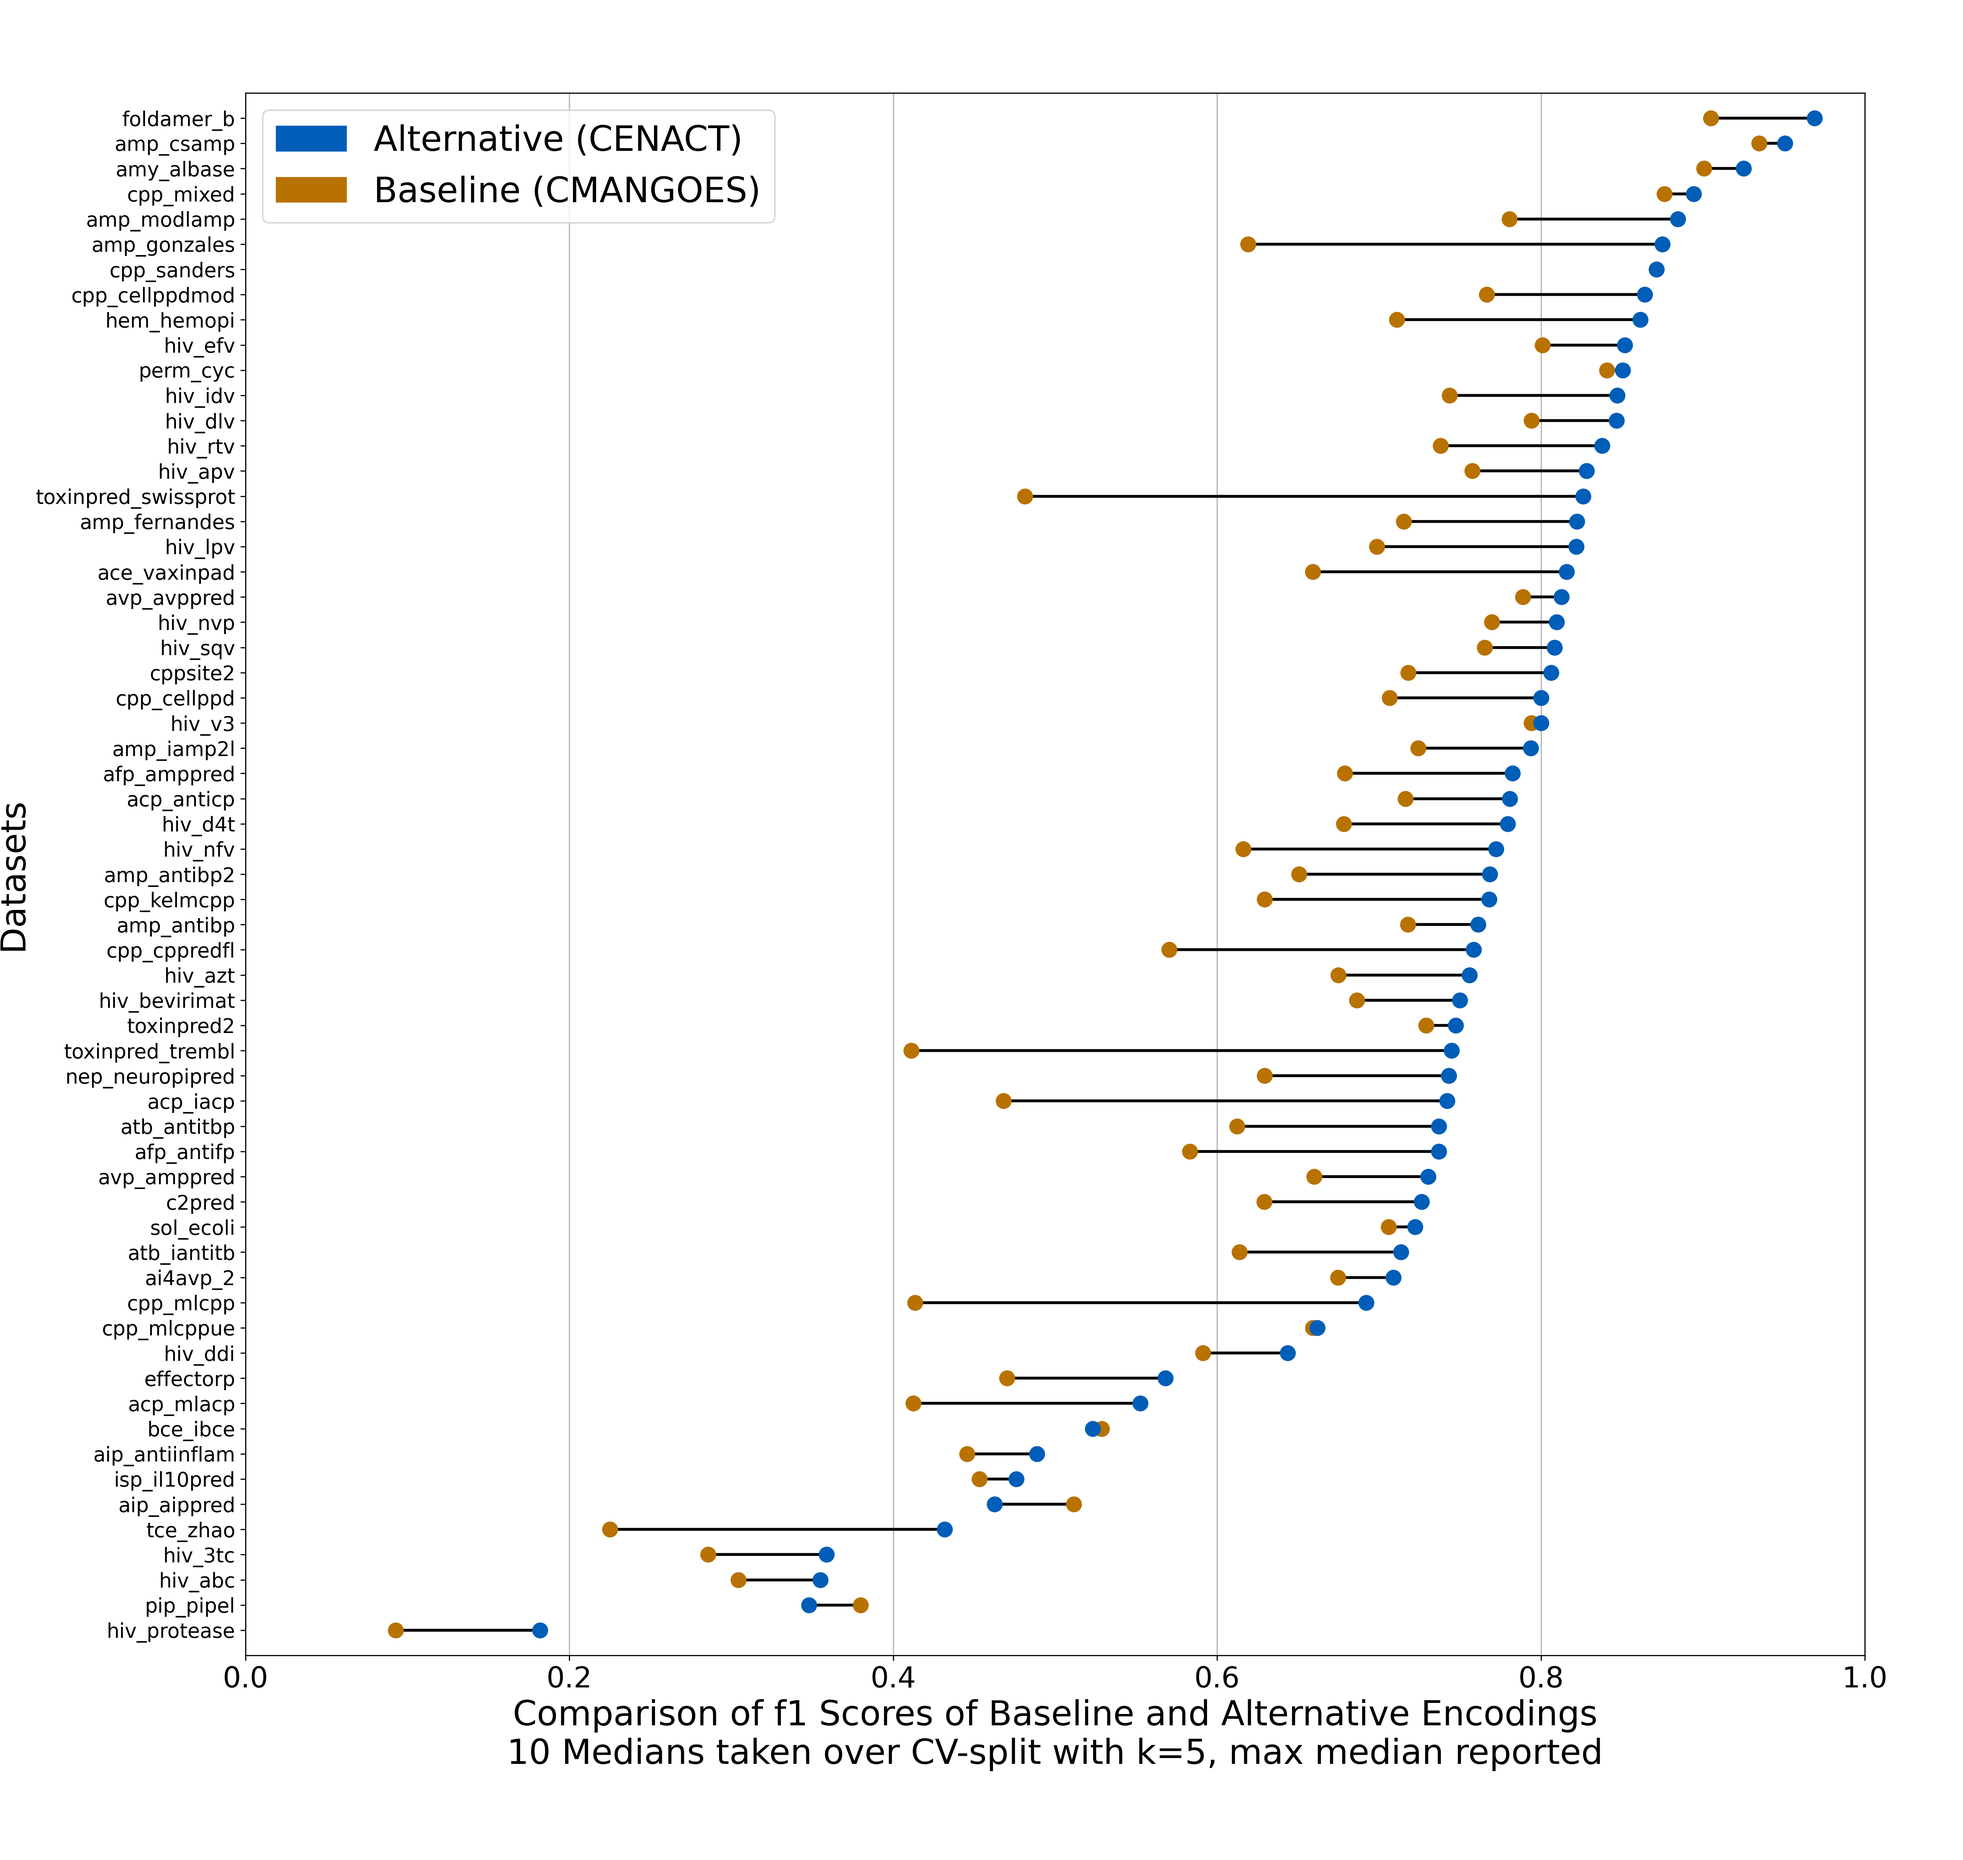
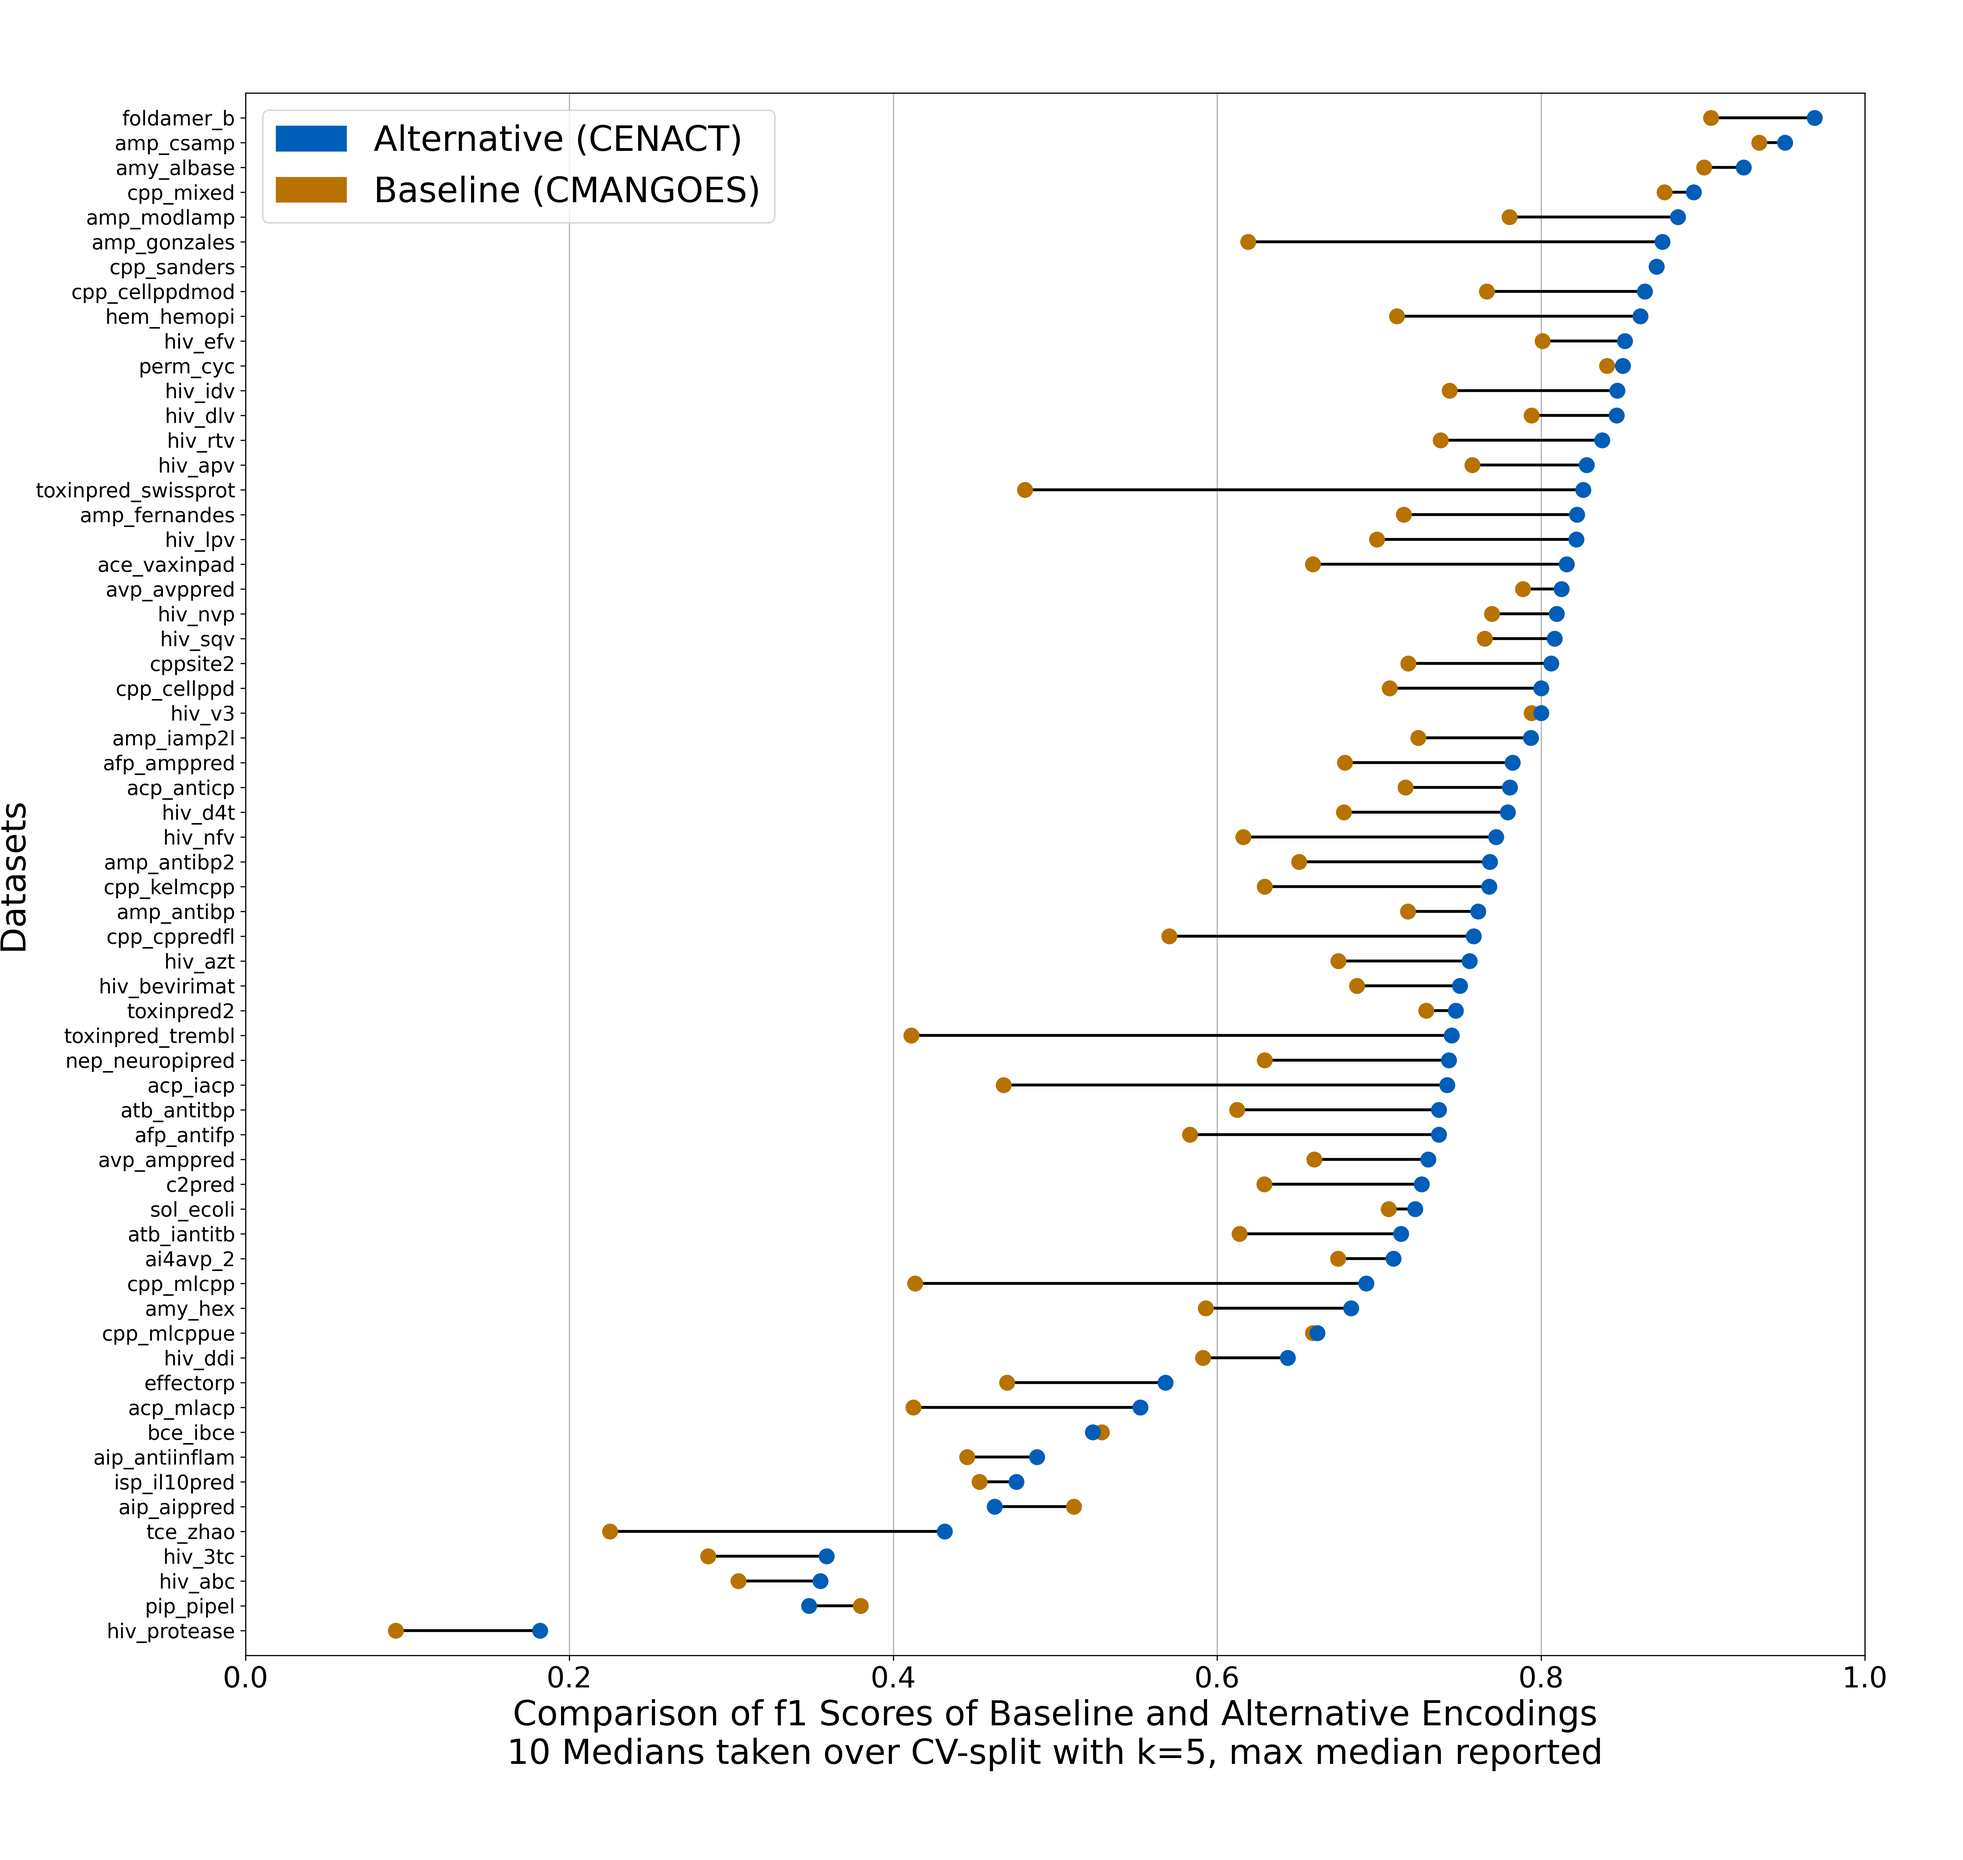
Add amy_hex dataset

Changed region(s): [[0.4684, 0.1244, 0.8432, 0.8089], [0.0312, 0.0622, 0.1249, 0.8711], [0.3435, 0.8089, 0.4372, 0.84]]

diff --git a/Visualisation/donut.py b/Visualisation/donut.py
@@ -24,6 +24,7 @@ dataset_selection = [
     'amp_iamp2l',
     'amp_modlamp',
     'amy_albase',
+    'amy_hex',
     'atb_antitbp',
     'atb_iantitb',
     'avp_amppred',

diff --git a/Visualisation/dumbbell-CMANGOES.py b/Visualisation/dumbbell-CMANGOES.py
@@ -36,6 +36,7 @@ dataset_selection = [
     'amp_iamp2l',
     'amp_modlamp',
     'amy_albase',
+    'amy_hex',
     'atb_antitbp',
     'atb_iantitb',
     'avp_amppred',

diff --git a/README.md b/README.md
@@ -27,7 +27,7 @@ Abstract:
  > To use machine learning methods in the field of organic chemistry for tasks such as similarity search, virtual screening or drug design, fingerprinting algorithms are required to render peptides and other organic compounds interpretable by machines. Simultaneously, the success of such models is contingent upon both the nature of the information that is encoded in the fingerprint as well as the manner in which this information is presented.
  A recently published encoding, motivated by the carbon backbone of organic compounds, captures the neighbourhoods of these carbon atoms in form of a numerical array.
  We propose a new Carbon-based Encoding of Neighbourhoods using Atom Count Tables (CENACT), which employs the same idea of carbon neighbourhoods but saves this information in a more rigid count table. This rigid structure strongly improves the benefit of the encoding for machine learning models.
- Applied to the task of binary peptide classification using a Random Forest Classifier, our proposed encoding significantly improves upon its predecessor on 52 out of 60 datasets.
+ Applied to the task of binary peptide classification using a Random Forest Classifier, our proposed encoding significantly improves upon its predecessor on 53 out of 61 datasets.
  In comparison with 45 peptide encodings applied to 50 datasets from various biomedical fields, the encoding performed well on the entire scope and even achieved the best results on two datasets.
  The approach is domain- and task-agnostic and can be applied to all organic molecules including unnatural and exotic amino acids as well as cyclic peptides and larger proteins, which we demonstrate in our experiments. The new encoding was developed as a Python package (CENACT), the source code and corresponding datasets can be found at [https://github.com/MoritzWeckbecker/CENACT](https://github.com/MoritzWeckbecker/CENACT).
 
